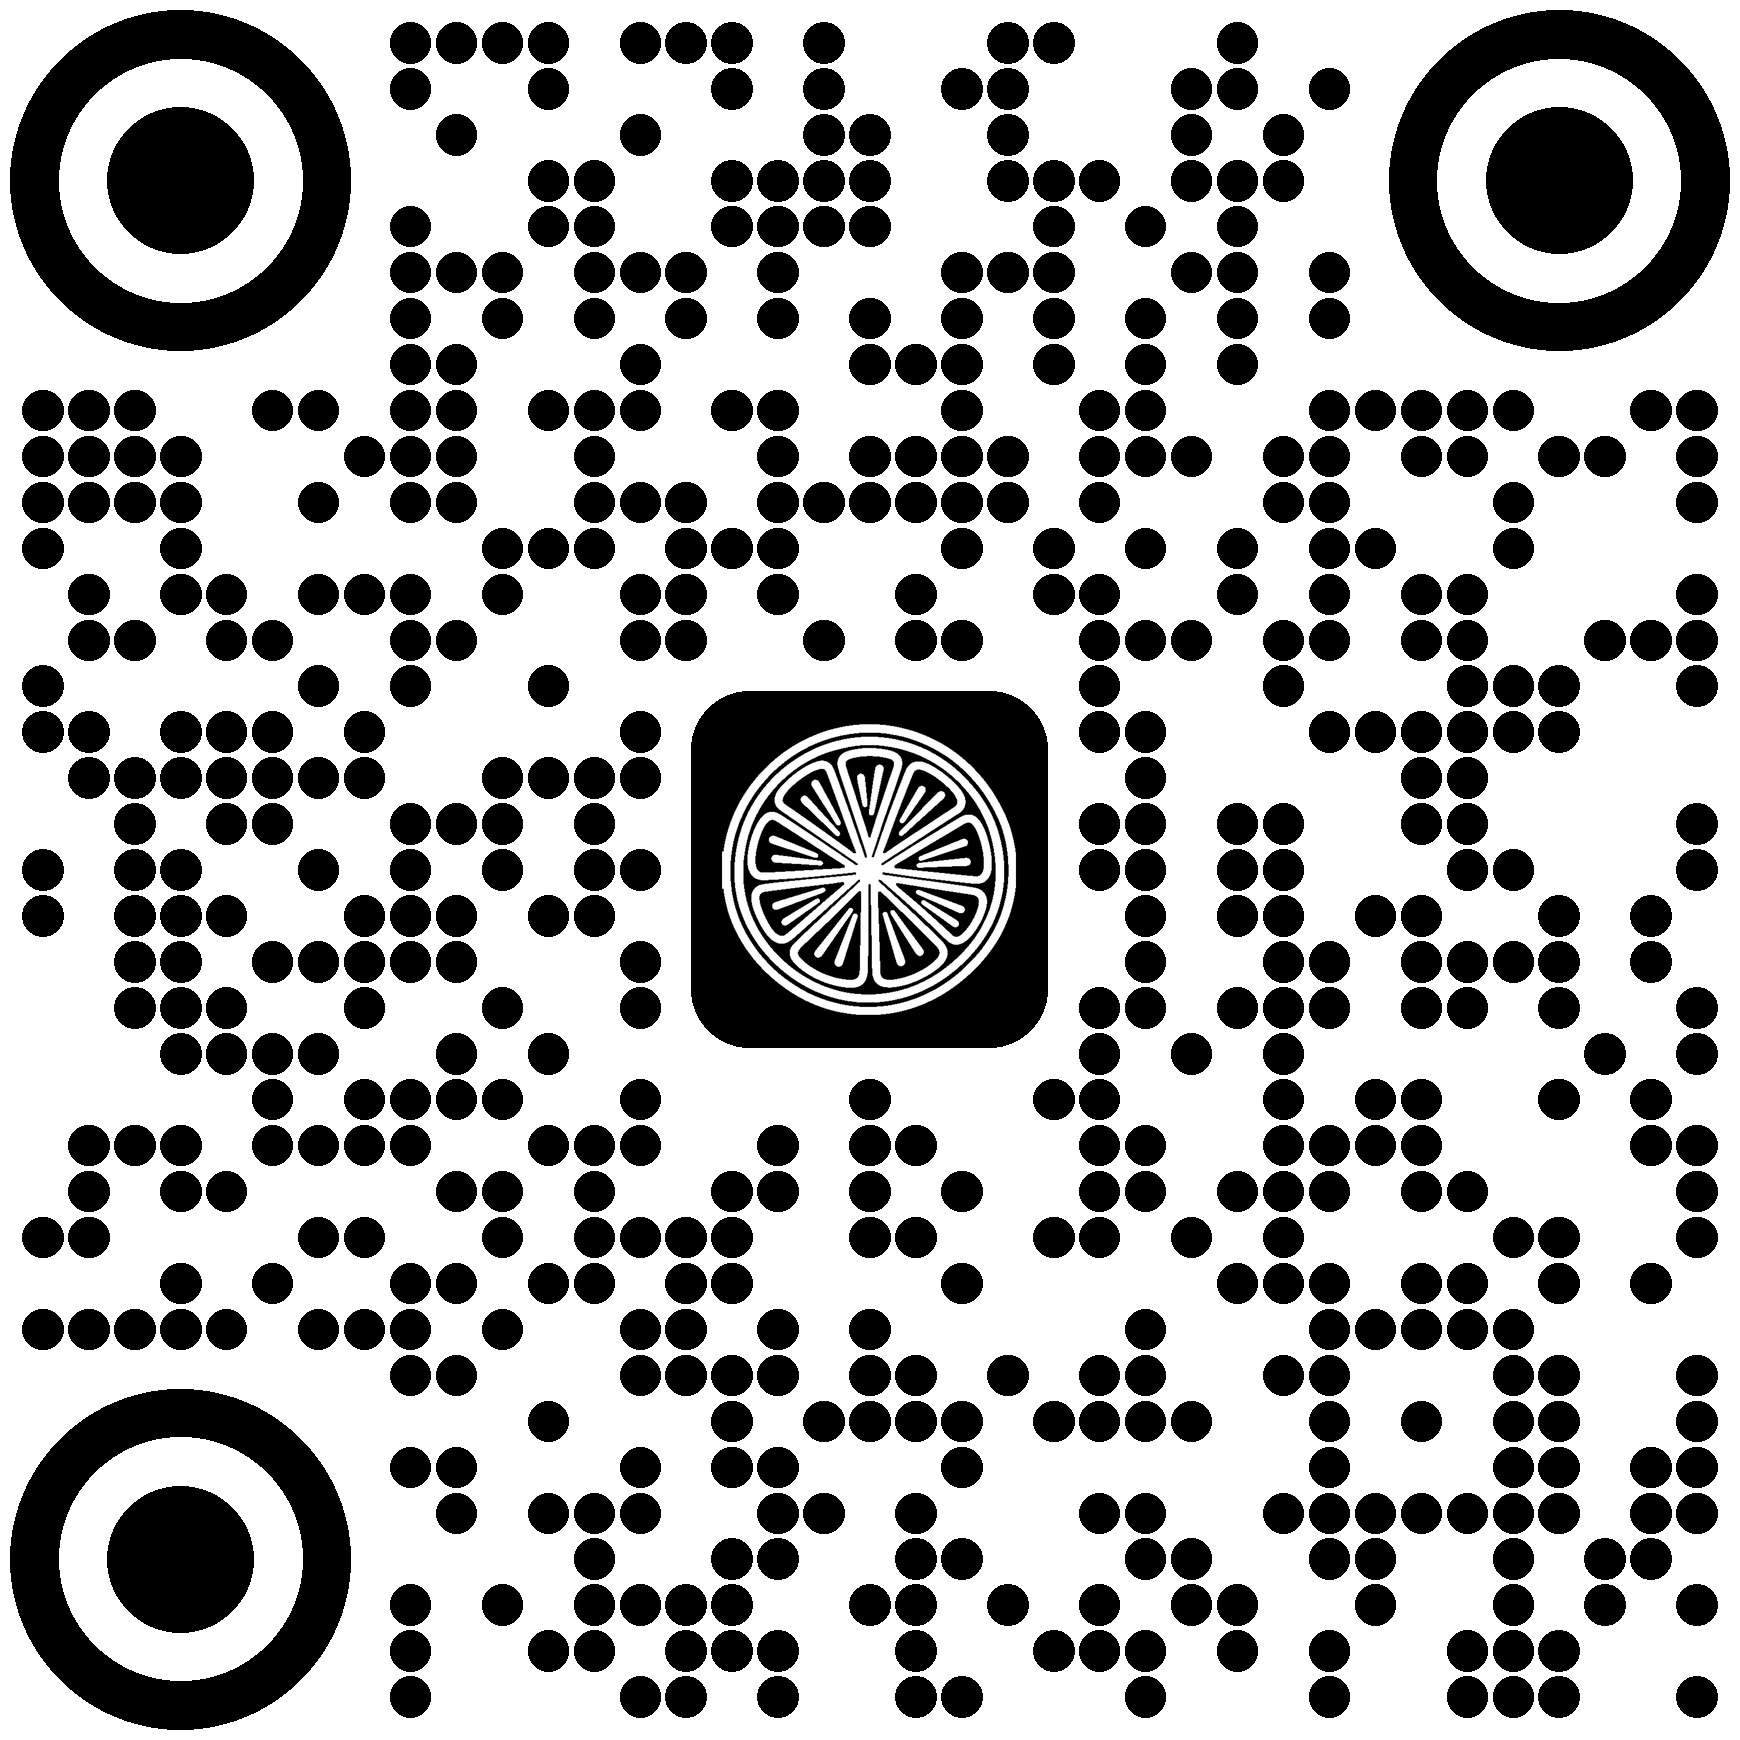
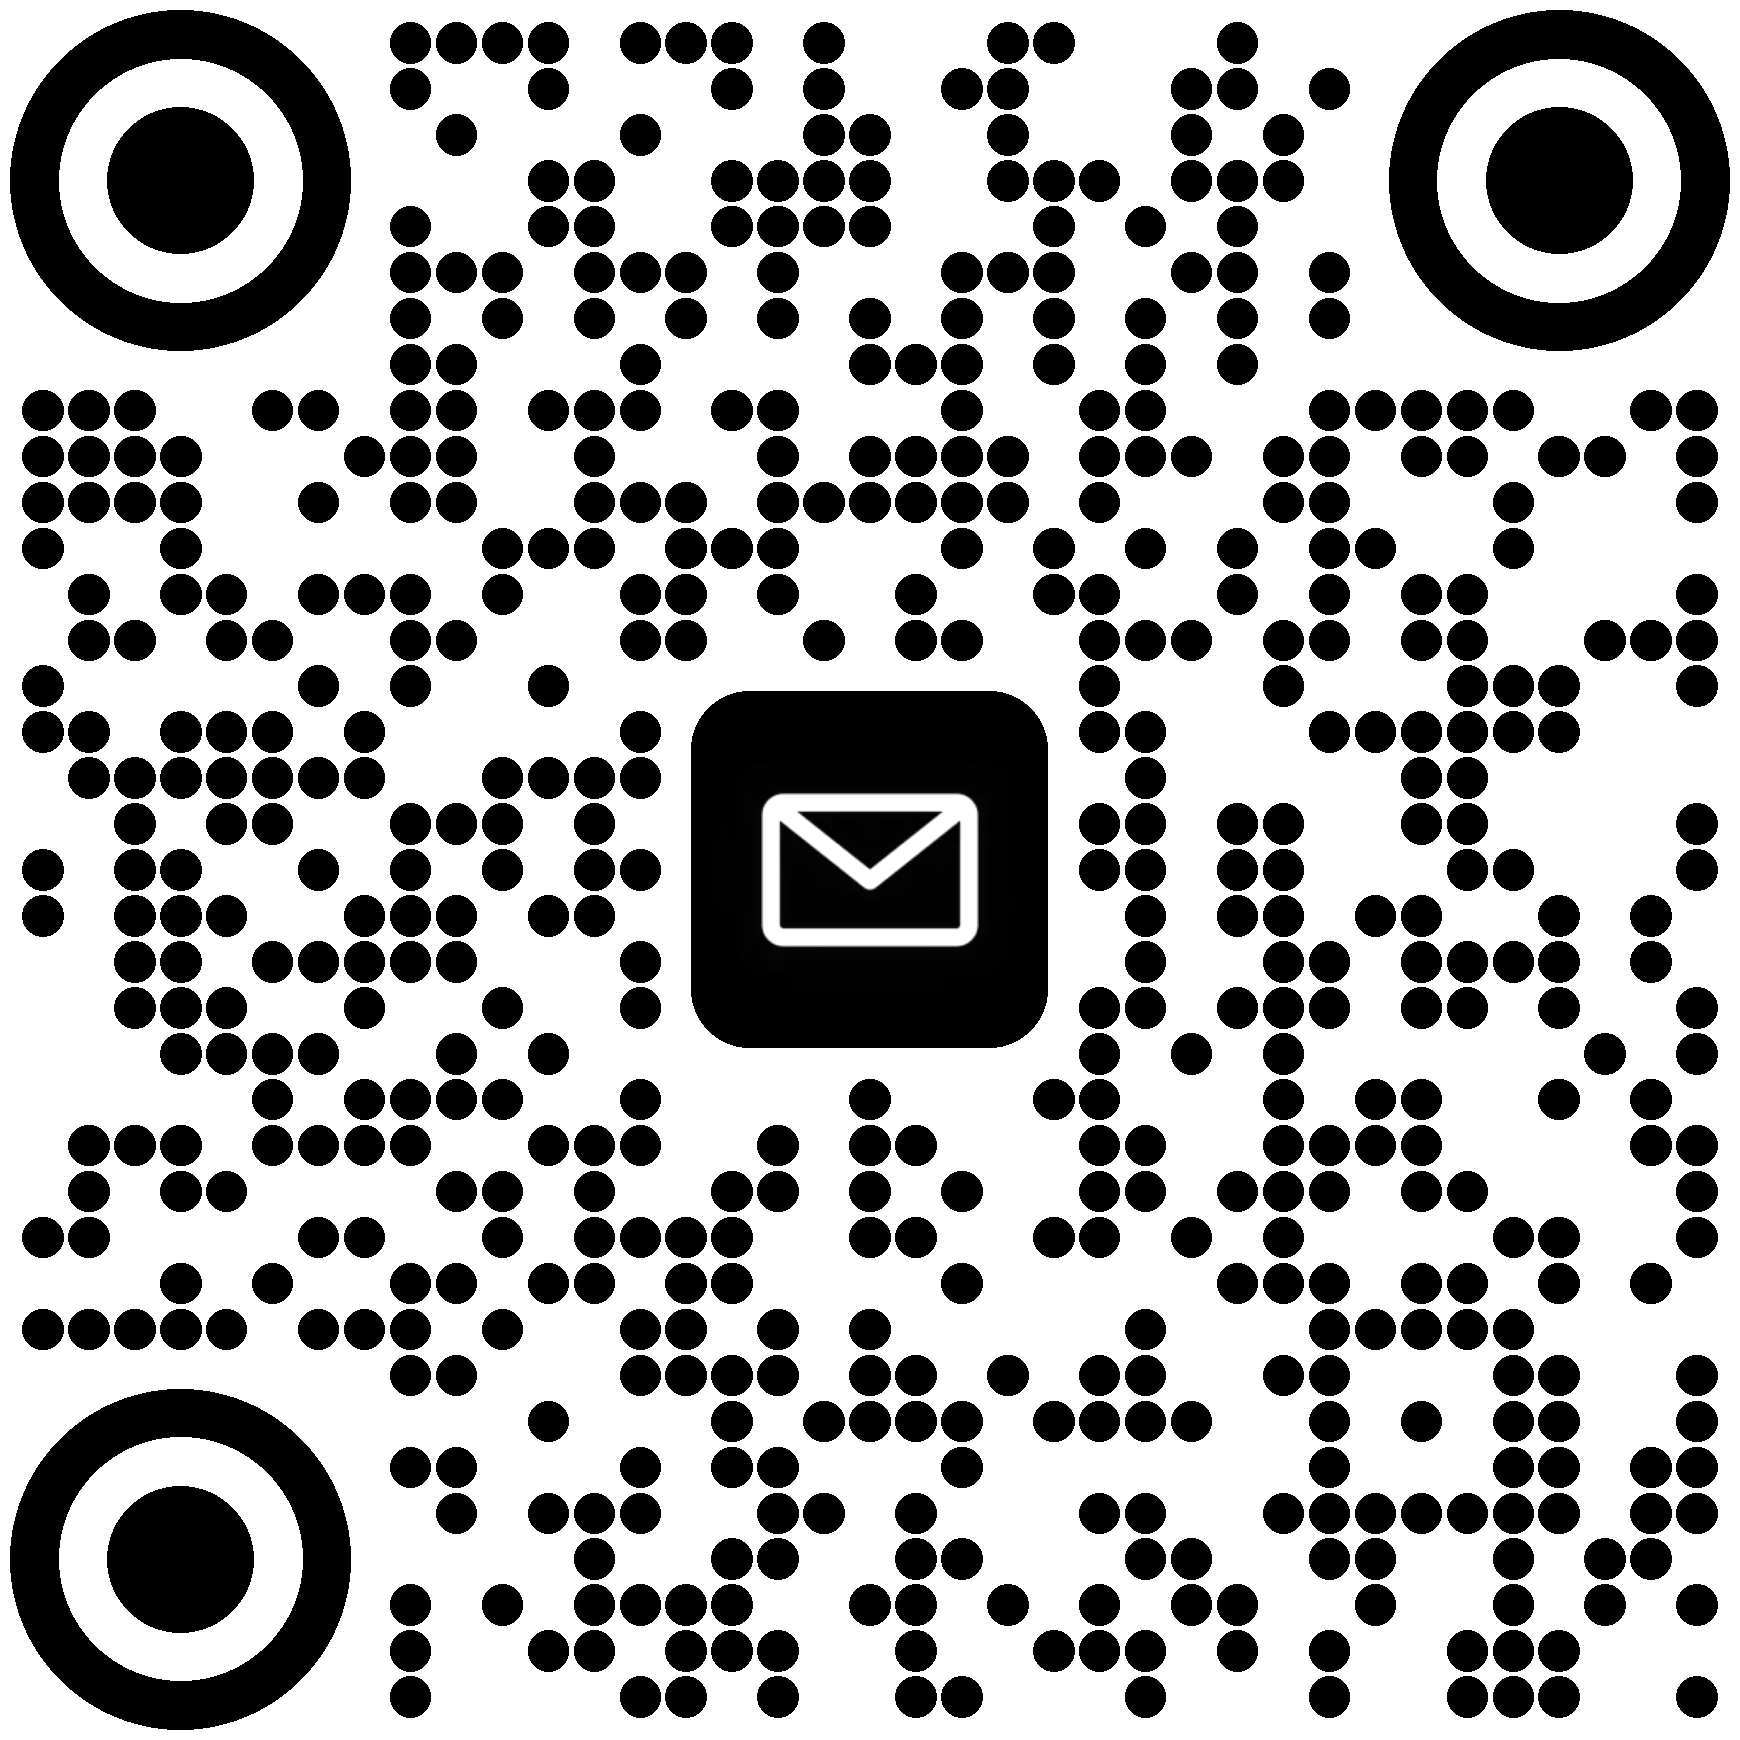
deploy: auto-commit 2026-08-20 17:27

Changed region(s): [[0.4034, 0.4034, 0.5897, 0.5897]]

diff --git a/functions/_data/i18n.ts b/functions/_data/i18n.ts
@@ -27,6 +27,7 @@ export const translations: Record<string, Record<string, string>> = {
     "contact_title": "联系方式",
     "visit_bilibili": "访问B站主页",
     "click_to_copy": "点击复制",
+    "click_mailto_copy": "点击发送邮件并复制",
     "copied": "已复制",
     "platform_bilibili": "B站",
     "platform_qq": "QQ",
@@ -159,6 +160,7 @@ export const translations: Record<string, Record<string, string>> = {
     "contact_title": "Contact",
     "visit_bilibili": "Visit Bilibili",
     "click_to_copy": "Click to copy",
+    "click_mailto_copy": "Click to email and copy",
     "copied": "Copied",
     "platform_bilibili": "Bilibili",
     "platform_qq": "QQ",
@@ -291,6 +293,7 @@ export const translations: Record<string, Record<string, string>> = {
     "contact_title": "お問い合わせ",
     "visit_bilibili": "Bilibili を見る",
     "click_to_copy": "クリックでコピー",
+    "click_mailto_copy": "クリックでメール送信＆コピー",
     "copied": "コピーしました",
     "platform_bilibili": "Bilibili",
     "platform_qq": "QQ",
@@ -423,6 +426,7 @@ export const translations: Record<string, Record<string, string>> = {
     "contact_title": "연락처",
     "visit_bilibili": "빌리빌리 방문",
     "click_to_copy": "클릭하여 복사",
+    "click_mailto_copy": "클릭하여 메일 보내기 및 복사",
     "copied": "복사됨",
     "platform_bilibili": "빌리빌리",
     "platform_qq": "QQ",

diff --git a/src/templates/contact.html b/src/templates/contact.html
@@ -139,9 +139,10 @@ along with this program.  If not, see <https://www.gnu.org/licenses/>. #}
 
         <!-- 邮箱 -->
         <div class="reveal-item copyable pressable qr-trigger cursor-pointer group relative" onclick="handleCopy(this, 'services@limooo.cn')"
+            data-copy-tip="click_mailto_copy"
             data-qr="{{ _('email_qr') }}"
             data-i18n-attr="data-qr:email_qr">
-            <div class="bubble-tip" data-i18n="click_to_copy">{{ _('click_to_copy') }}</div>
+            <div class="bubble-tip" data-i18n="click_mailto_copy">{{ _('click_mailto_copy') }}</div>
             <p class="text-[11px] opacity-40 mb-1 tracking-[calc(0.3em*var(--ls-scale))]" data-i18n="platform_email">{{ _('platform_email') }}</p>
             <p class="text-lg md:text-2xl opacity-90 border-b-2 border-[var(--line)] pb-1 font-medium">
                 <a href="{{ _('email_mailto') }}"
@@ -197,7 +198,8 @@ function handleCopy(el, text) {
         var tip = el.querySelector('.bubble-tip');
         if (tip) {
             showTip(tip, t('copied'), true);
-            setTimeout(function() { showTip(tip, t('click_to_copy'), false); }, COPY_HINT_DURATION);
+            var tipKey = el.dataset.copyTip || 'click_to_copy';
+            setTimeout(function() { showTip(tip, t(tipKey), false); }, COPY_HINT_DURATION);
         }
     });
 }

diff --git a/functions/_middleware.ts b/functions/_middleware.ts
@@ -466,6 +466,10 @@ function renderGatePage(context: EventContext, opts: GateRenderOptions): Respons
 <meta name="robots" content="noindex, nofollow">
 <meta name="color-scheme" content="dark light">
 <meta name="theme-color" content="#17181c">
+<!-- ── 图标（与主站 base.html 一致） ── -->
+<link rel="icon" href="https://images.limooo.cn/icons/favicon.ico" sizes="any">
+<link rel="icon" href="https://images.limooo.cn/icons/favicon.png" type="image/png" sizes="256x256">
+<link rel="apple-touch-icon" href="https://images.limooo.cn/icons/favicon.png">
 <title>${t("title")}</title>
 <script>
   // 与主站共用 localStorage key "theme"：首次跟随系统，点击后固定并缓存
@@ -911,6 +915,10 @@ function renderRedirectPage(context: EventContext): Response {
 <meta charset="utf-8">
 <meta name="viewport" content="width=device-width, initial-scale=1">
 <meta http-equiv="refresh" content="1; url=${escapeHtml(to)}">
+<!-- ── 图标（与主站 base.html 一致） ── -->
+<link rel="icon" href="https://images.limooo.cn/icons/favicon.ico" sizes="any">
+<link rel="icon" href="https://images.limooo.cn/icons/favicon.png" type="image/png" sizes="256x256">
+<link rel="apple-touch-icon" href="https://images.limooo.cn/icons/favicon.png">
 <title>${t.title}</title>
     ${preloadLinks}
 <style>

diff --git a/src/templates/redirect.html b/src/templates/redirect.html
@@ -22,6 +22,10 @@ along with this program.  If not, see <https://www.gnu.org/licenses/>. #}
 <meta name="viewport" content="width=device-width, initial-scale=1">
 {# 1s 作为无 JS 兜底/硬上限；正常路径由页尾脚本立即或预热完成后跳转 #}
 <meta http-equiv="refresh" content="1; url={{ to }}">
+<!-- ── 图标（与主站 base.html 一致） ── -->
+<link rel="icon" href="https://images.limooo.cn/icons/favicon.ico" sizes="any">
+<link rel="icon" href="https://images.limooo.cn/icons/favicon.png" type="image/png" sizes="256x256">
+<link rel="apple-touch-icon" href="https://images.limooo.cn/icons/favicon.png">
 <title>{{ _('redirect_title') }}</title>
 {% if preload %}
     {% for rel in preload_images %}

diff --git a/src/templates/auth.html b/src/templates/auth.html
@@ -10,6 +10,10 @@
 <meta name="robots" content="noindex, nofollow">
 <meta name="color-scheme" content="dark light">
 <meta name="theme-color" content="#17181c">
+<!-- ── 图标（与主站 base.html 一致） ── -->
+<link rel="icon" href="https://images.limooo.cn/icons/favicon.ico" sizes="any">
+<link rel="icon" href="https://images.limooo.cn/icons/favicon.png" type="image/png" sizes="256x256">
+<link rel="apple-touch-icon" href="https://images.limooo.cn/icons/favicon.png">
 <title>{{ title }}</title>
 <script>
   // 与主站共用 localStorage key "theme"：首次跟随系统，点击后固定并缓存
